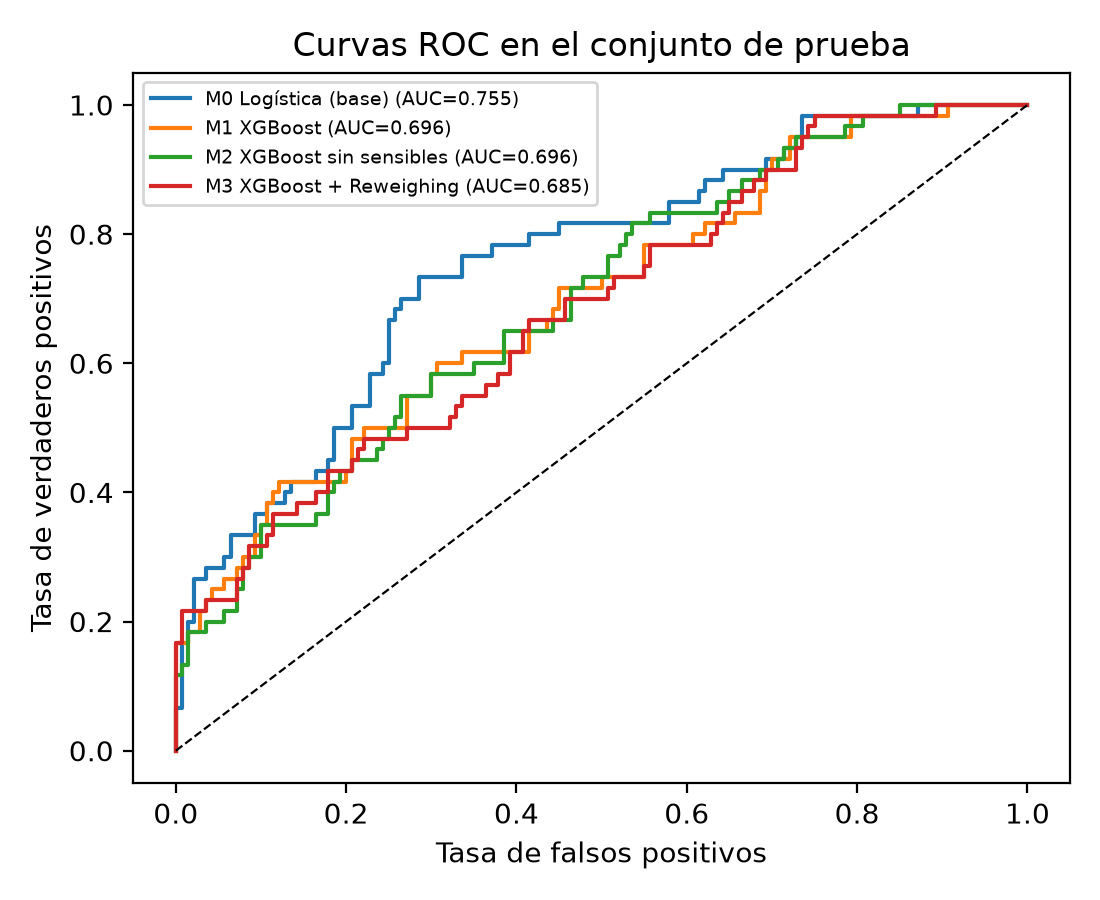
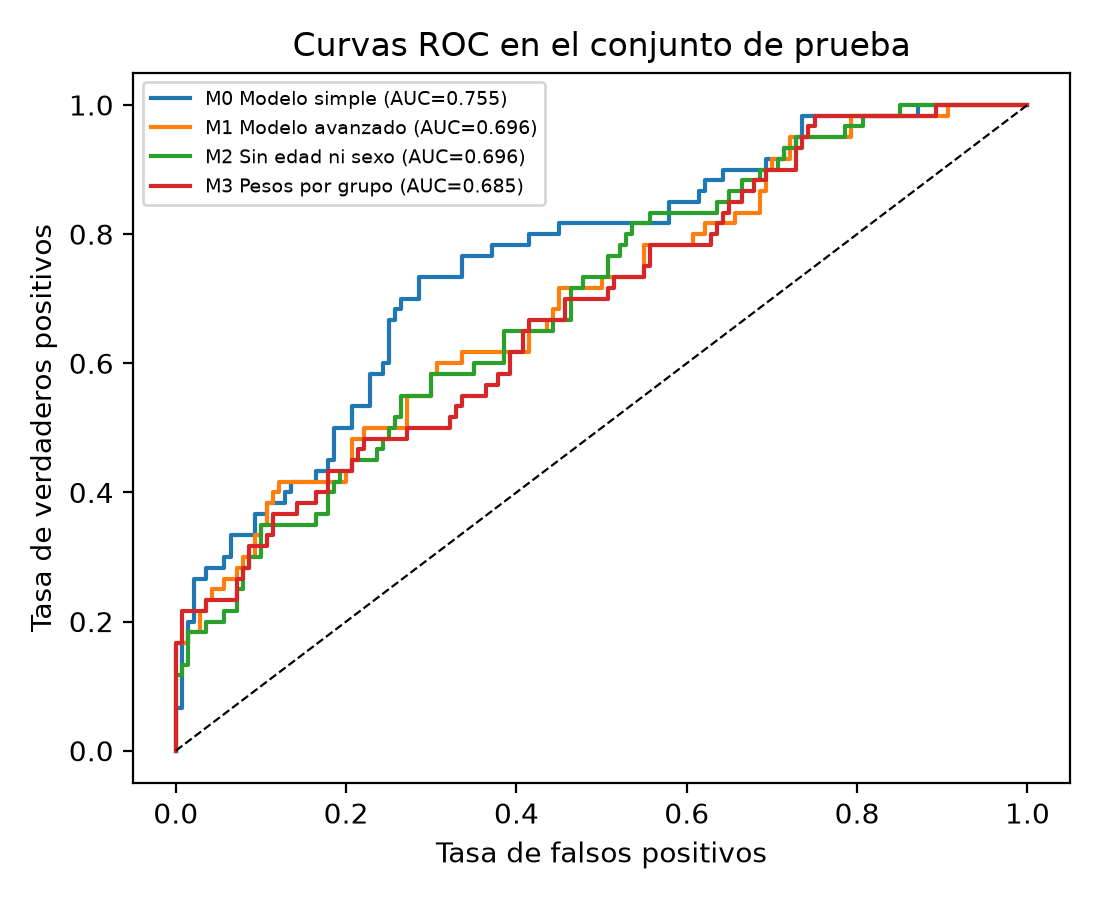
refactor: nombres descriptivos para los modelos en el código y las gráficas

Changed region(s): [[0.2164, 0.0933, 0.5564, 0.2489], [0.4945, 0.0622, 0.5255, 0.0933]]

diff --git a/credit_fairness.py b/credit_fairness.py
@@ -229,17 +229,17 @@ def main():
     systems = {}
     # M0: línea base logística (con atributos sensibles)
     m0 = pipe(LogisticRegression(C=best_lr[1], max_iter=2000, random_state=seed), num_all, cat_all)
-    m0.fit(tr[cols_all], ytr); systems["M0 Logística (base)"] = (m0, cols_all)
+    m0.fit(tr[cols_all], ytr); systems["M0 Modelo simple"] = (m0, cols_all)
     # M1: XGBoost afinado (con atributos sensibles)
     m1 = pipe(make_xgb(best_params), num_all, cat_all)
-    m1.fit(tr[cols_all], ytr); systems["M1 XGBoost"] = (m1, cols_all)
+    m1.fit(tr[cols_all], ytr); systems["M1 Modelo avanzado"] = (m1, cols_all)
     # M2: XGBoost sin atributos sensibles (fairness through unawareness)
     m2 = pipe(make_xgb(best_params), num_ns, cat_ns)
-    m2.fit(tr[cols_ns], ytr); systems["M2 XGBoost sin sensibles"] = (m2, cols_ns)
+    m2.fit(tr[cols_ns], ytr); systems["M2 Sin edad ni sexo"] = (m2, cols_ns)
     # M3: XGBoost con Reweighing sobre edad
     w = reweighing_weights(ytr, tr.age_group.values)
     m3 = pipe(make_xgb(best_params), num_all, cat_all)
-    m3.fit(tr[cols_all], ytr, clf__sample_weight=w); systems["M3 XGBoost + Reweighing"] = (m3, cols_all)
+    m3.fit(tr[cols_all], ytr, clf__sample_weight=w); systems["M3 Pesos por grupo"] = (m3, cols_all)
 
     # ---------- Evaluación Train / Val / Test ----------
     results, preds_test, probas_test, thresholds = {}, {}, {}, {}
@@ -258,7 +258,7 @@ def main():
     to = ThresholdOptimizer(estimator=Float64Proba(m1), constraints="equalized_odds", objective="balanced_accuracy_score",
                             prefit=True, predict_method="predict_proba")
     to.fit(va[cols_all], yva, sensitive_features=va.age_group)
-    name4 = "M4 XGBoost + ThresholdOpt (EO)"
+    name4 = "M4 Umbral por grupo"
     rs = np.random.RandomState(seed)
     pred4 = to.predict(te[cols_all], sensitive_features=te.age_group, random_state=rs).astype(int)
     preds_test[name4] = pred4
@@ -303,7 +303,7 @@ def main():
     # ---------- Figuras ----------
     # (1) ROC
     plt.figure(figsize=(5.5, 4.5))
-    for name in ["M0 Logística (base)", "M1 XGBoost", "M2 XGBoost sin sensibles", "M3 XGBoost + Reweighing"]:
+    for name in ["M0 Modelo simple", "M1 Modelo avanzado", "M2 Sin edad ni sexo", "M3 Pesos por grupo"]:
         fpr, tpr, _ = roc_curve(yte, probas_test[name])
         plt.plot(fpr, tpr, label=f"{name} (AUC={roc_auc_score(yte, probas_test[name]):.3f})")
     plt.plot([0, 1], [0, 1], "k--", lw=.8); plt.xlabel("Tasa de falsos positivos"); plt.ylabel("Tasa de verdaderos positivos")
@@ -311,7 +311,7 @@ def main():
     plt.savefig(out / "fig1_roc.png", dpi=200); plt.close()
 
     # (2) Matriz de confusión del modelo M1
-    cm = confusion_matrix(yte, preds_test["M1 XGBoost"])
+    cm = confusion_matrix(yte, preds_test["M1 Modelo avanzado"])
     fig, ax = plt.subplots(figsize=(4.2, 3.8)); ax.imshow(cm, cmap="Blues")
     for (i, j), v in np.ndenumerate(cm):
         ax.text(j, i, v, ha="center", va="center", fontsize=14, color="white" if v > cm.max() / 2 else "black")
@@ -327,7 +327,7 @@ def main():
         x = np.arange(len(names)); wdt = .38
         for k, g in enumerate(groups):
             ax.bar(x + (k - .5) * wdt, [fairness[n]["age_group"]["by_group"][g][metric] for n in names], wdt, label=g)
-        ax.set_xticks(x, [n.split(" ")[0] for n in names]); ax.set_title(title); ax.set_ylim(0, 1)
+        ax.set_xticks(x, [n.split(" ", 1)[1] for n in names], rotation=30, ha="right", fontsize=7); ax.set_title(title); ax.set_ylim(0, 1)
     axes[0].legend(fontsize=8); plt.tight_layout(); plt.savefig(out / "fig3_fairness_age.png", dpi=200); plt.close()
 
     # (4) Trade-off desempeño vs. equidad
@@ -335,8 +335,9 @@ def main():
     for name in names:
         r = results[name]["test"]
         plt.scatter(fairness[name]["age_group"]["equalized_odds_diff"], r["balanced_acc"], s=70)
-        plt.annotate(name.split(" ")[0], (fairness[name]["age_group"]["equalized_odds_diff"], r["balanced_acc"]),
-                     textcoords="offset points", xytext=(5, 4), fontsize=9)
+        dx, dy, ha = {"M0": (-8, 6, "right"), "M3": (6, -13, "left"), "M4": (-8, 8, "right")}.get(name.split(" ")[0], (6, 5, "left"))
+        plt.annotate(name, (fairness[name]["age_group"]["equalized_odds_diff"], r["balanced_acc"]),
+                     textcoords="offset points", xytext=(dx, dy), ha=ha, fontsize=9)
     plt.xlabel("Diferencia de Equalized Odds por edad (menor = más equitativo)"); plt.ylabel("Balanced accuracy (test)")
     plt.title("Compromiso desempeño-equidad"); plt.tight_layout(); plt.savefig(out / "fig4_tradeoff.png", dpi=200); plt.close()
 
